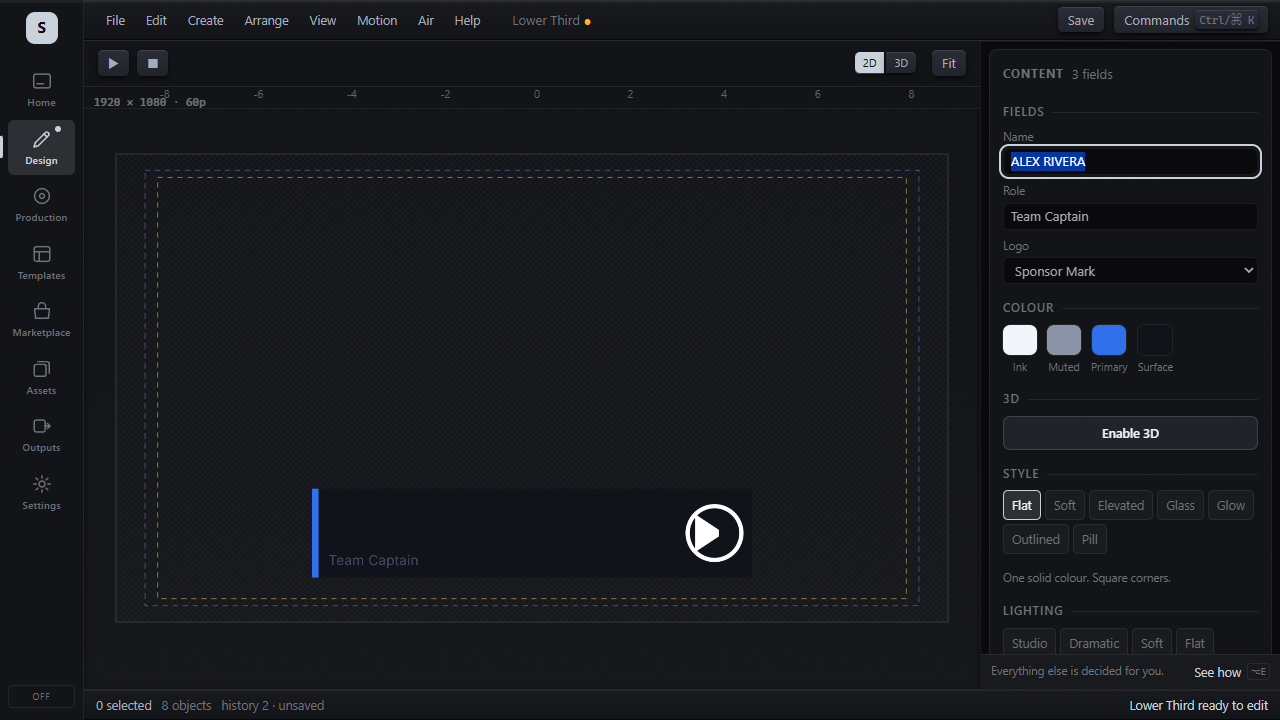
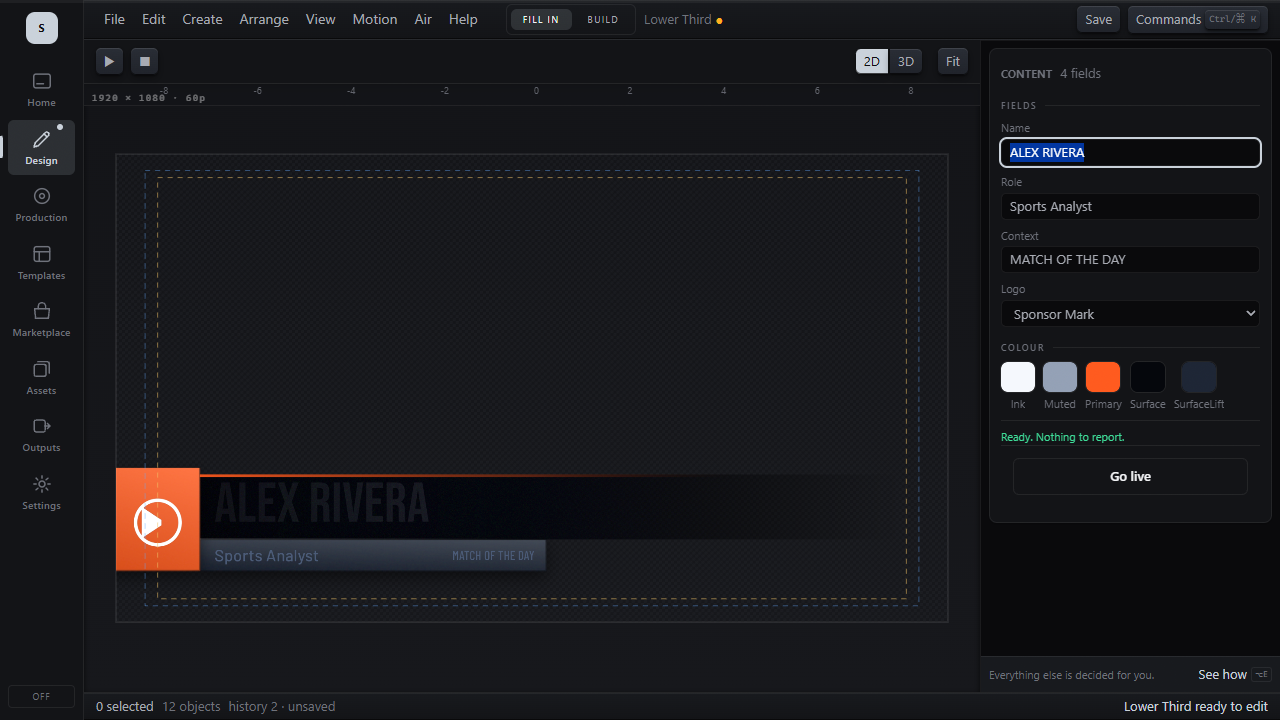
feat(studio): Fill in shows the content, and Build discloses the rest
The dock offered a beginner four fields and then thirty controls they had no
use for -- Enable 3D, ten styles, four lights with exposure and shadows, five
entrances -- all at once, above the one button that puts the graphic to air.

Two mechanisms, not one. At Fill in the advanced sections are ABSENT: a
disclosure somebody must learn to ignore is still something they must learn.
At Build they are present and CLOSED, because a superset must not arrive as a
wall.

Content already took depth and onDepth and had never used either -- the props
were there, lint had been reporting them unused, and the level they describe
had no effect on the panel it was passed to.

Collapsing the four sections had a consequence worth recording: the layer
tree is now visible at Build. It was always rendered, and thirty controls had
pushed it below the fold.

diff --git a/apps/studio/src/ui/panels.tsx b/apps/studio/src/ui/panels.tsx
@@ -1,4 +1,4 @@
-import { useEffect, useMemo, useRef, useState } from "react";
+import { useEffect, useMemo, useRef, useState, type ReactNode } from "react";
 import { createPortal } from "react-dom";
 import { claimEscape } from "../studio/cancellation";
 import {
@@ -1423,6 +1423,46 @@ function ContentField({
   );
 }
 
+/**
+ * A section of the dock that only an expert has asked for.
+ *
+ * ============================================================================
+ * TWO MECHANISMS, NOT ONE
+ * ============================================================================
+ * At `beginner` the section is ABSENT. Not collapsed, not greyed — absent.
+ * Somebody filling in a name and a role has no use for a lighting rig, and a
+ * disclosure they must learn to ignore is still something they must learn.
+ *
+ * At `expert` it is present and CLOSED, because Build is a superset that must
+ * not arrive as one wall of controls. Opening one is a deliberate act and it
+ * stays open for the session.
+ *
+ * `<details>` rather than a state-driven div: it is open by keyboard for free,
+ * it is announced as a disclosure, and it survives with no state of ours.
+ */
+function Advanced({
+  depth,
+  label,
+  testId,
+  children,
+}: {
+  readonly depth: Depth;
+  readonly label: string;
+  readonly testId: string;
+  readonly children: ReactNode;
+}) {
+  if (depth === "beginner") return null;
+  return (
+    <details className="fgrp adv" data-testid={testId}>
+      <summary className="lbl">
+        {label}
+        <span className="ln" />
+      </summary>
+      {children}
+    </details>
+  );
+}
+
 export function Content({
   session,
   assets,
@@ -1567,8 +1607,7 @@ export function Content({
           The finishes are named by what they LOOK like. Metalness and
           roughness are generated and are visible to an advanced user in
           Properties — never here. */}
-      <div className="fgrp" data-testid="content-depth">
-        <div className="lbl">3D<span className="ln" /></div>
+      <Advanced depth={depth} label="3D" testId="content-depth">
         <button
           type="button"
           className={`depth-toggle-3d ${solid ? "on" : ""}`}
@@ -1613,7 +1652,7 @@ export function Content({
             ))}
           </div>
         ) : null}
-      </div>
+      </Advanced>
 
       {/* ==================================================================
           STYLE — THE WHOLE GRAPHIC, IN ONE PRESS
@@ -1630,8 +1669,7 @@ export function Content({
 
           Every look is derived from each node's OWN fill, so this never
           repaints a broadcaster's brand in somebody else's colours. */}
-      <div className="fgrp" data-testid="content-style">
-        <div className="lbl">Style<span className="ln" /></div>
+      <Advanced depth={depth} label="Style" testId="content-style">
         <div className="finishes" data-testid="graphic-styles">
           {PAINTS.map((paint) => (
             <button
@@ -1656,7 +1694,7 @@ export function Content({
             ? "The graphic's panels are styled differently. Choosing one makes them match."
             : currentPaint.hint}
         </p>
-      </div>
+      </Advanced>
 
       {/* ==================================================================
           LIGHTING — A LOOK, NOT SIX NUMBERS
@@ -1673,8 +1711,7 @@ export function Content({
           Exposure and shadows sit beside them but are NOT lights: they are
           properties of the picture. Raising exposure does not make the key
           brighter, it makes the photograph brighter. */}
-      <div className="fgrp" data-testid="lighting">
-        <div className="lbl">Lighting<span className="ln" /></div>
+      <Advanced depth={depth} label="Lighting" testId="lighting">
         <div className="finishes">
           {LOOKS.map((look) => (
             <button
@@ -1742,13 +1779,12 @@ export function Content({
               : "Flat graphics need no lighting. Choose a look if you add depth."
             : `${lights.length} ${lights.length === 1 ? "light" : "lights"}. Move or re-aim any of them in the layer tree.`}
         </p>
-      </div>
+      </Advanced>
 
       {/* ANIMATION — Volume One L8 and Blueprint M-0. One choice generates the
           keyframes, the easing and the timing. The generated timeline is an
           ordinary one; nothing here is a special case downstream. */}
-      <div className="fgrp" data-testid="content-motion">
-        <div className="lbl">Animation<span className="ln" /></div>
+      <Advanced depth={depth} label="Animation" testId="content-motion">
         <div className="motion-picks">
           {ENTRANCES.map((preset) => (
             <button
@@ -1766,7 +1802,7 @@ export function Content({
             </button>
           ))}
         </div>
-      </div>
+      </Advanced>
 
       <div className="preflight" data-testid="preflight">
         {report.clear ? (

diff --git a/apps/studio/e2e/levels.spec.ts b/apps/studio/e2e/levels.spec.ts
@@ -35,6 +35,52 @@ test("Production names the act it performs", async ({ page }) => {
   await expect(page.getByTestId("level-expert")).toHaveText(/desk/i);
 });
 
+const ADVANCED = ["content-depth", "content-style", "lighting", "content-motion"] as const;
+
+test("Fill in shows the content, and none of the construction", async ({ page }) => {
+  await page.goto("/");
+  await page.getByTestId("nav-home").click();
+  await page.getByTestId("start-tpl_lower_third").click();
+
+  // What a beginner came for.
+  await expect(page.getByTestId("content-colour")).toBeVisible();
+  await expect(page.getByLabel("Name")).toBeVisible();
+
+  // ABSENT, not collapsed. A disclosure you must learn to ignore is still
+  // something you must learn.
+  for (const section of ADVANCED) {
+    await expect(page.getByTestId(section)).toHaveCount(0);
+  }
+});
+
+test("Build adds every section, closed", async ({ page }) => {
+  await page.goto("/");
+  await page.getByTestId("nav-home").click();
+  await page.getByTestId("start-tpl_lower_third").click();
+  await page.getByTestId("level-expert").click();
+
+  for (const section of ADVANCED) {
+    const panel = page.getByTestId(section);
+    await expect(panel).toBeVisible();
+    // Closed: Build is a superset, not a wall.
+    await expect(panel).not.toHaveAttribute("open", "");
+  }
+
+  // And the fields never moved — the switch is safe to press.
+  await expect(page.getByLabel("Name")).toBeVisible();
+});
+
+test("an advanced section opens, and only the one asked for", async ({ page }) => {
+  await page.goto("/");
+  await page.getByTestId("nav-home").click();
+  await page.getByTestId("start-tpl_lower_third").click();
+  await page.getByTestId("level-expert").click();
+
+  await page.getByTestId("content-style").locator("summary").click();
+  await expect(page.getByTestId("content-style")).toHaveAttribute("open", "");
+  await expect(page.getByTestId("lighting")).not.toHaveAttribute("open", "");
+});
+
 test("a section with nothing to reveal shows no switch", async ({ page }) => {
   await page.goto("/");
   await page.getByTestId("nav-marketplace").click();

diff --git a/apps/studio/src/shell.css b/apps/studio/src/shell.css
@@ -1598,3 +1598,39 @@ li:active > button.row-name,
 .mon-face > canvas {
   grid-area: 1 / 1;
 }
+
+/* --------------------------------------------------------------------------
+   ADVANCED SECTIONS
+
+   Present only at Build, and closed until asked for. The marker is a caret we
+   draw rather than the browser's triangle, which arrives at whatever weight
+   the platform feels like — the same argument the rail's icons are drawn
+   under. No transition on opening: the content is already there, and a panel
+   that has to finish animating before it can be read is a panel you wait for.
+   -------------------------------------------------------------------------- */
+.fgrp.adv > summary {
+  cursor: pointer;
+  list-style: none;
+  display: flex;
+  align-items: center;
+  gap: var(--s2);
+}
+
+.fgrp.adv > summary::-webkit-details-marker {
+  display: none;
+}
+
+.fgrp.adv > summary::before {
+  content: "";
+  inline-size: 0;
+  block-size: 0;
+  flex: none;
+  border-inline-start: 4px solid currentColor;
+  border-block-start: 3px solid transparent;
+  border-block-end: 3px solid transparent;
+  opacity: 0.65;
+}
+
+.fgrp.adv[open] > summary::before {
+  transform: rotate(90deg);
+}
